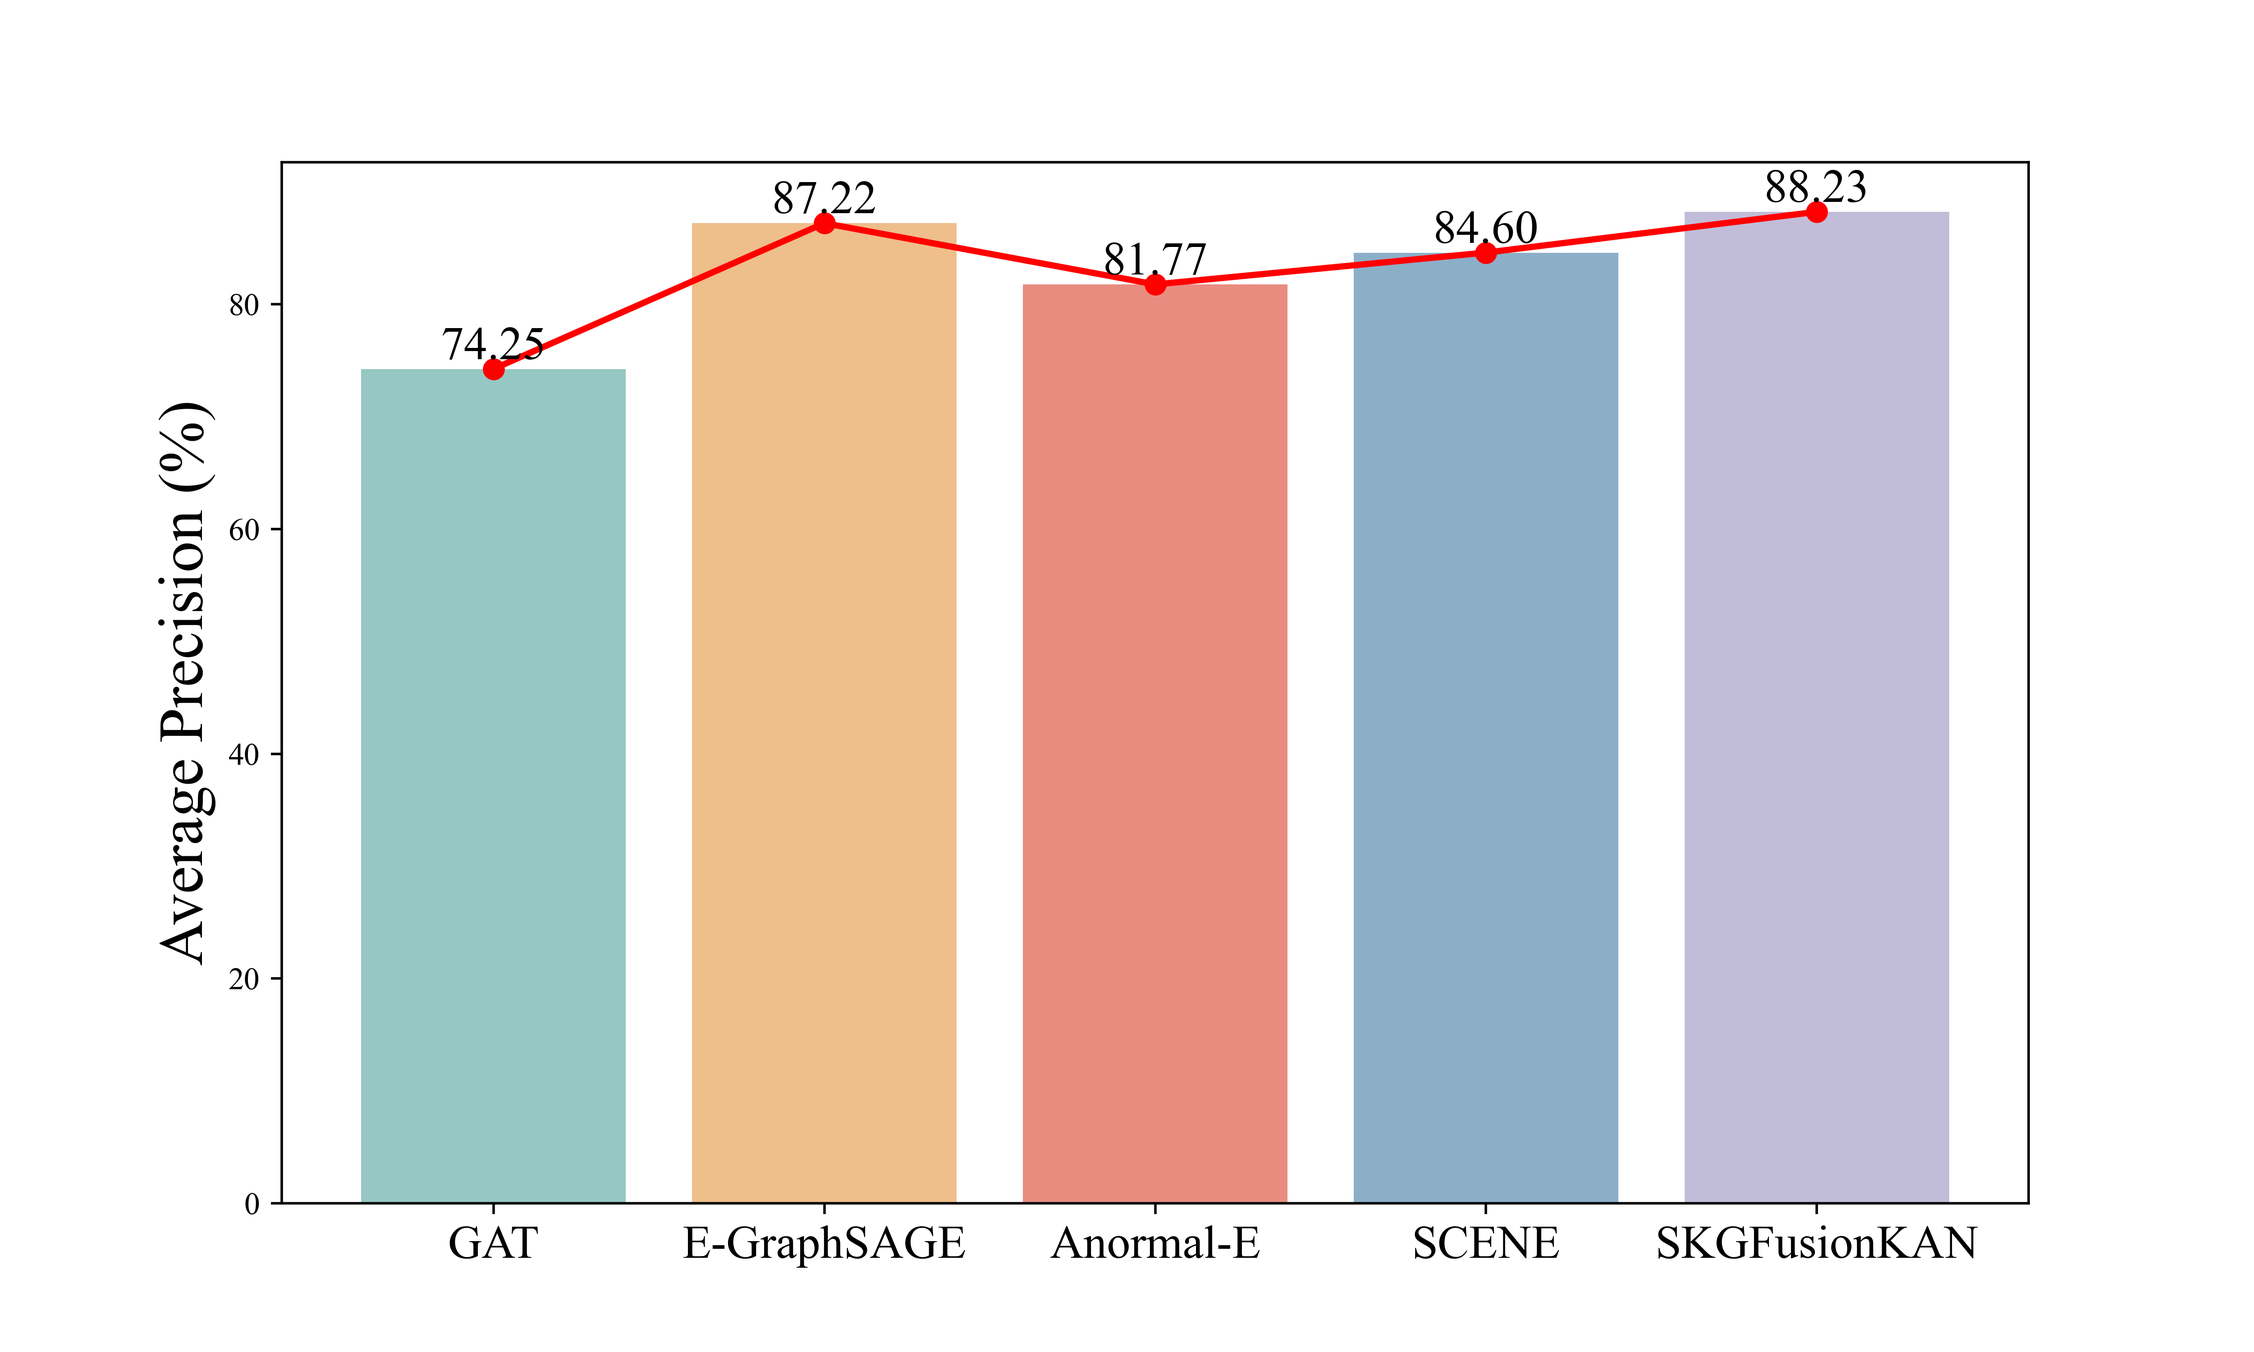
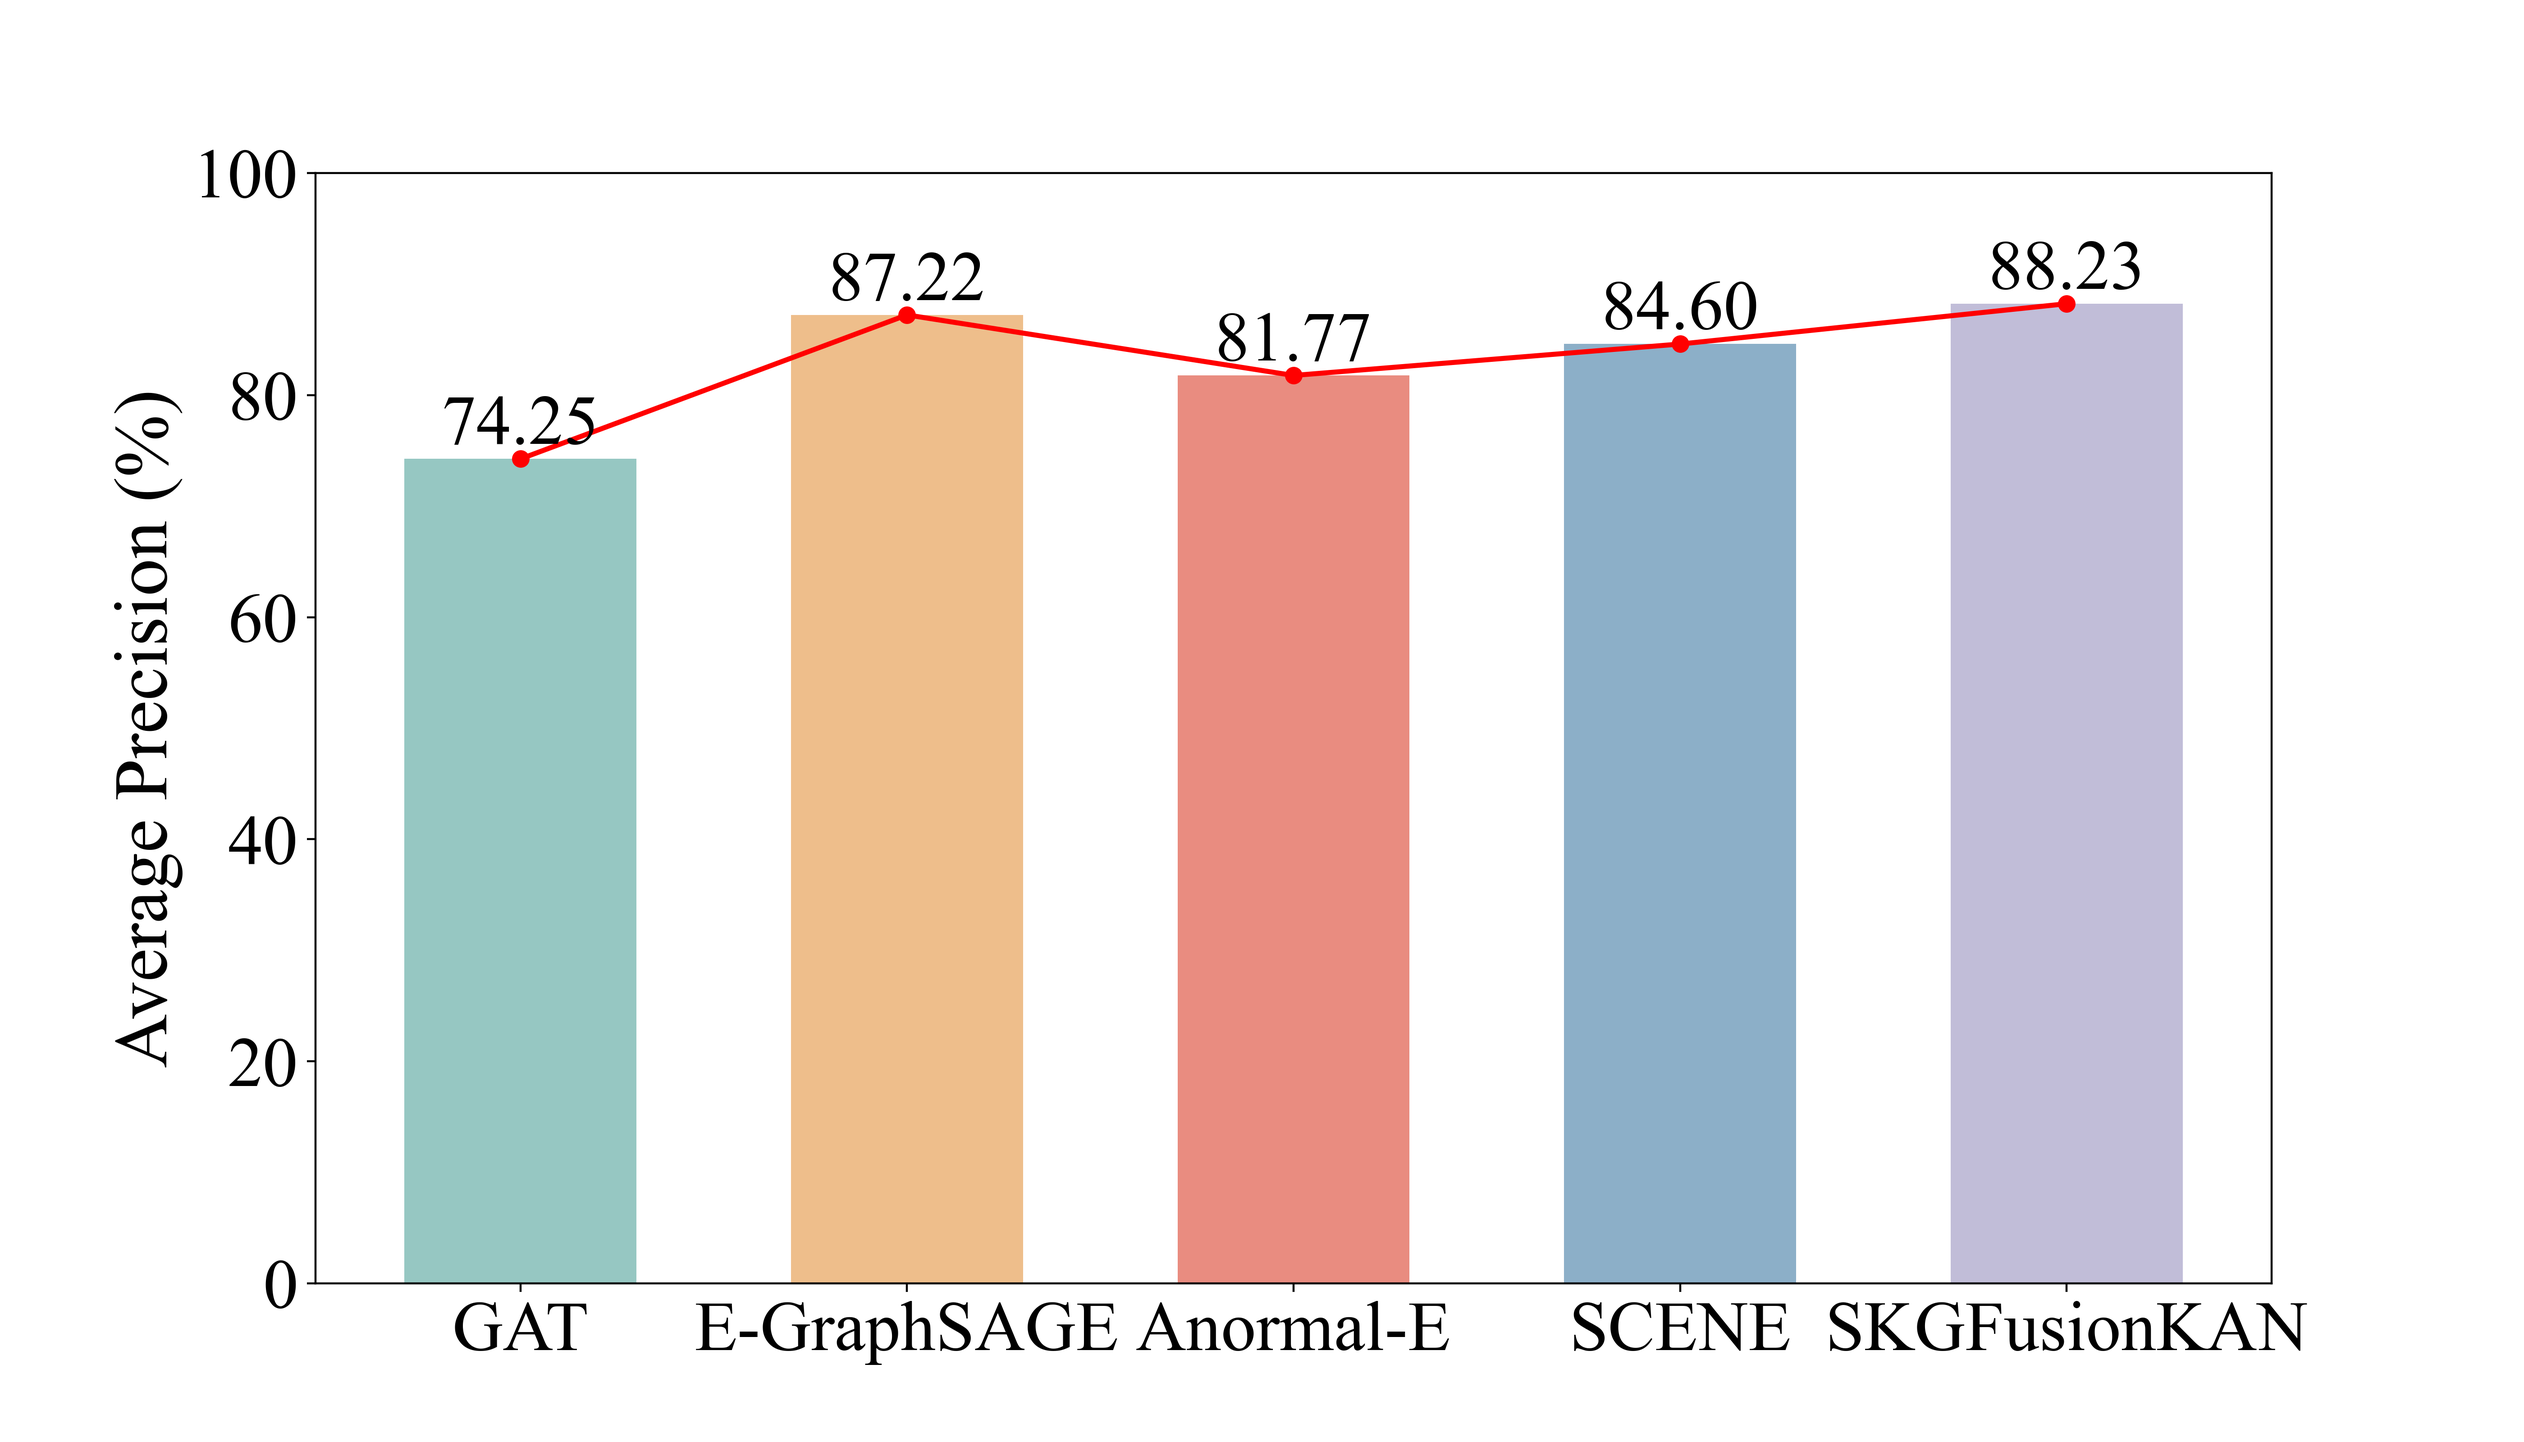
绘图上传

diff --git a/E-GraphSAGE/experiments/draw.py b/E-GraphSAGE/experiments/draw.py
@@ -19,28 +19,37 @@ plt.rc('font', family='Times New Roman')
 colors = ['#8ECFC9', '#FFBE7A', '#FA7F6F', '#82B0D2', '#BEB8DC']
 
 def plot_metric(metric, title):
-    plt.figure(figsize=(10, 6))
-    barplot = sns.barplot(x='Model', y=metric, data=df, palette=colors)
+    plt.figure(figsize=(14, 8))
+    barplot = sns.barplot(x='Model', y=metric, data=df, palette=colors, width=0.6)
 
     # 在每个柱子上显示数值
     for p in barplot.patches:
         barplot.annotate(f'{p.get_height():.2f}',
                          (p.get_x() + p.get_width() / 2., p.get_height()),
-                         ha='center', va='bottom', fontsize=15)
+                         ha='center', va='bottom', fontsize=28)
 
     # 绘制折线
     plt.plot(df['Model'], df[metric], marker='o', color='red', linewidth=2, label='Trend')
 
-    plt.title('', fontsize=25)
-    plt.xlabel('', fontsize=20)
-    plt.ylabel(title, fontsize=20)
-    plt.xticks(fontsize=15)
+    # 移除上边和右边的边框
+    # ax = plt.gca()  # 获取当前的坐标轴
+    # ax.spines['top'].set_visible(False)
+    # ax.spines['right'].set_visible(False)
+
+    # 设置Y轴的范围为0到100
+    plt.ylim(0, 100)
+
+    plt.title('', fontsize=30)
+    plt.xlabel('', fontsize=30)
+    plt.ylabel(title, fontsize=30)
+    plt.xticks(fontsize=28)
+    plt.yticks(fontsize=28)
 
     # 添加图例到底部
     # handles = [plt.Rectangle((0, 0), 1, 1, color=colors[i], label=df['Model'][i]) for i in range(len(df))]
     # plt.legend(handles=handles, fontsize=15, loc='lower center', bbox_to_anchor=(0.5, -0.15), ncol=3)
 
-    plt.savefig(f'average_{metric.lower()}_comparison_with_trend.png', dpi=500)
+    plt.savefig(f'average_{metric.lower()}_comparison_with_trend.png', dpi=400)
     plt.close()
 
 # 绘制三种指标的图表

diff --git a/E-GraphSAGE/experiments/data_preprocess.py b/E-GraphSAGE/experiments/data_preprocess.py
@@ -209,7 +209,7 @@ def resample_data(dataset):
 
 
 if __name__ == '__main__':
-    dataset = 'NF-BoT-IoT-v2'
+    dataset = 'NF-ToN-IoT-v2'
     resample_data(dataset)
 
 
